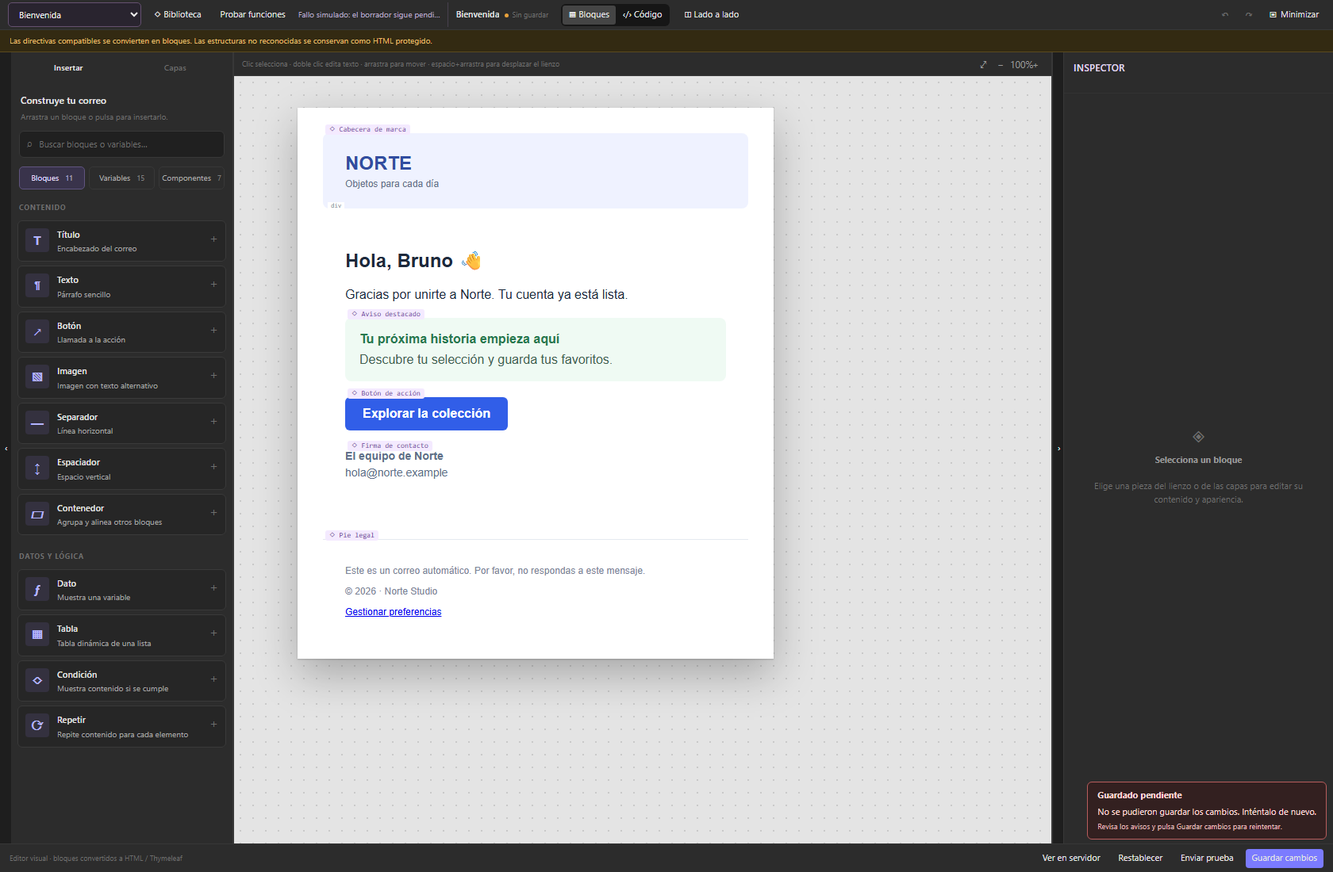
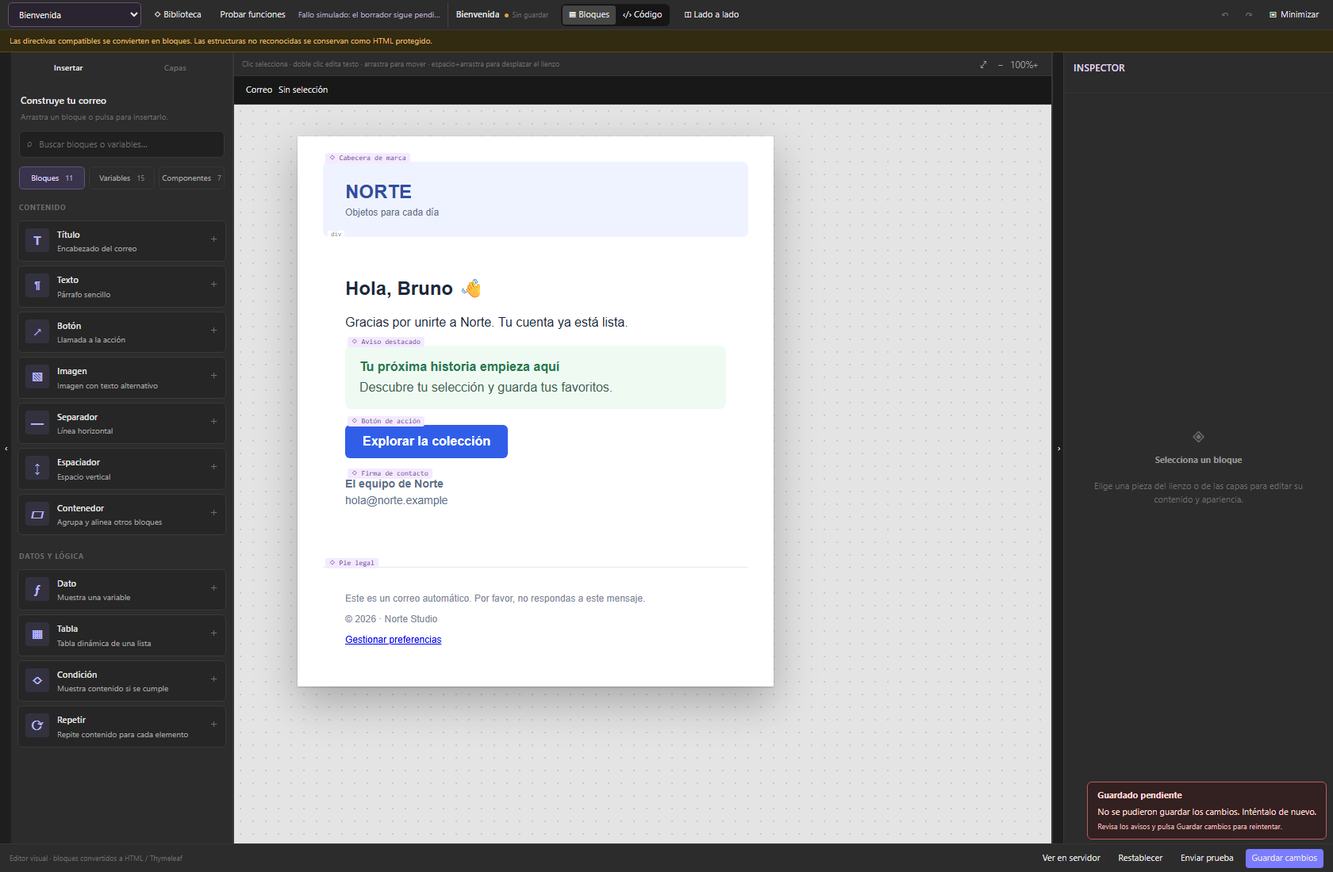
refactor(layers): unify hierarchy, ancestry navigation and nested drops

Changed region(s): [[0.1548, 0.0618, 0.8048, 0.2473], [0.2476, 0.2782, 0.4643, 0.6182], [0.2167, 0.6491, 0.5881, 0.8345]]

diff --git a/src/components/editor/LayerPanel.tsx b/src/components/editor/LayerPanel.tsx
@@ -1,86 +1,99 @@
-import React, { useRef, useState } from "react";
-import type { EmailBlock, InlineNode } from "../../services/emailBlocks";
-import { tableRowGroups } from "../../services/tableRows";
+import {useEffect,useMemo,useRef,useState} from "react";
+import type {EmailBlock} from "../../services/emailBlocks";
+import {tableRowGroups} from "../../services/tableRows";
+import {blockChildren,canDropLayer,layerGlyphs,layerIndex,layerName,layerTypes} from "../../editor/selectionModel";
+import SelectionPath from "./SelectionPath";
 
-type Props = {
-  blocks: EmailBlock[]; selectedIds: Set<string>;
-  onSelect: (id: string, additive: boolean) => void; onSelectTableField: (id: string, field: string) => void;
-  onMove: (id: string, delta: -1 | 1) => void; onDelete: (id: string) => void;
-  onReorder: (movingId: string, targetId: string, after: boolean) => void; onContextMenu: (id: string, x: number, y: number) => void;
+type Props={
+ blocks:EmailBlock[];selectedIds:Set<string>;
+ onSelect:(id:string,additive:boolean)=>void;onSelectTableField:(id:string,field:string)=>void;
+ onMove:(id:string,delta:-1|1)=>void;onDelete:(id:string)=>void;
+ onReorder:(movingId:string,targetId:string,after:boolean)=>void;
+ onMoveInto?:(movingId:string,parentId:string)=>void;
+ onContextMenu:(id:string,x:number,y:number)=>void;
 };
-const typeName: Record<EmailBlock["type"], string> = {
-  component:"Componente vinculado",
-  html: "HTML protegido", heading: "Título", paragraph: "Texto", rich: "Texto", variable: "Dato", button: "Botón", image: "Imagen",
-  divider: "Separador", spacer: "Espaciador", table: "Tabla", container: "Contenedor", loop: "Repetir", if: "Condición",
-};
-const glyph: Record<EmailBlock["type"], string> = { component: "◇", html: "<>", heading: "T", paragraph: "¶", rich: "¶", variable: "ƒ", button: "↗", image: "▧", divider: "—", spacer: "↕", table: "▦", container: "▱", loop: "⟳", if: "◇" };
-const inlineText = (nodes: InlineNode[]): string => nodes.map(node => node.type === "text" ? node.text : node.type === "variable" ? `\${${node.expression}}` : node.tag === "br" ? " · " : inlineText(node.children)).join("");
-const name = (block: EmailBlock): string => block.type === "component" ? `◇ ${block.name}` : block.type === "heading" || block.type === "paragraph" ? block.text : block.type === "rich" ? inlineText(block.children) || "Texto" : block.type === "variable" ? block.expression : block.type === "table" || block.type === "loop" ? block.collection : block.type === "if" ? block.variable : block.type === "button" ? block.text : block.type === "image" ? block.alt || "Imagen" : block.type === "container" ? block.className || (block.styles?.display === "flex" ? "Fila" : "Grupo") : typeName[block.type];
-const childrenOf = (block: EmailBlock): EmailBlock[] => block.type === "container" || block.type === "loop" || block.type === "if" ? block.children : [];
-const flatten = (blocks: EmailBlock[]): EmailBlock[] => blocks.flatMap(block => [block, ...flatten(childrenOf(block))]);
-const normalize = (value: string) => value.normalize("NFD").replace(/[\u0300-\u036f]/g, "").toLowerCase();
-
-export default function LayerPanel({ blocks, selectedIds, onSelect, onSelectTableField, onMove, onDelete, onReorder, onContextMenu }: Props) {
-  const [collapsed, setCollapsed] = useState<Set<string>>(() => new Set());
-  const [query, setQuery] = useState("");
-  const all = flatten(blocks);
-  const matches = (block: EmailBlock): boolean => normalize(`${name(block)} ${typeName[block.type]} ${block.type === "table" ? block.fields.join(" ") : ""}`).includes(normalize(query.trim()));
-  const visible = (block: EmailBlock): boolean => matches(block) || childrenOf(block).some(visible);
-  const isCollapsed = (block: EmailBlock) => !query.trim() && collapsed.has(block.id);
-  const [dragging, setDragging] = useState<string | null>(null);
-  const dragBlocked=useRef(false);
-  const [dropTarget, setDropTarget] = useState<{ id: string; after: boolean } | null>(null);
-  const render = (items: EmailBlock[], depth = 0, loopId?: string): React.ReactNode => items.map((block, index) => !visible(block) ? null : <React.Fragment key={block.id}>
-    <div draggable data-ee-layer-id={block.id} className={`ee-layer-row ee-layer-draggable ${dragging===block.id?"dragging":""} ${selectedIds.has(block.id) ? "selected" : ""} ${dropTarget?.id === block.id ? (dropTarget.after ? "drop-after" : "drop-before") : ""}`} style={{ paddingLeft: 6 + depth * 14 }}
-      onPointerDown={event=>{dragBlocked.current=!!(event.target as HTMLElement).closest(".ee-tree-actions,.ee-layer-disclosure");}}
-      onDragStart={event=>{
-        if(dragBlocked.current){event.preventDefault();return;}
-        event.dataTransfer.setData("application/x-email-layer",block.id);event.dataTransfer.effectAllowed="move";setDragging(block.id);
+type Drop={id:string;edge:"before"|"after"|"into"};
+const normalize=(value:string)=>value.normalize("NFD").replace(/[\u0300-\u036f]/g,"").toLowerCase();
+export default function LayerPanel(props:Props) {
+ const {blocks,selectedIds,onSelect,onMove,onDelete,onSelectTableField,onReorder,onMoveInto,onContextMenu}=props;
+ const index=useMemo(()=>layerIndex(blocks),[blocks]);
+ const [collapsed,setCollapsed]=useState<Set<string>>(new Set());
+ const [query,setQuery]=useState("");
+ const [moving,setMoving]=useState<string|null>(null);
+ const [drop,setDrop]=useState<Drop|null>(null);
+ const tree=useRef<HTMLDivElement>(null);
+ const blocked=useRef(false);
+ const selectionKey=[...selectedIds].join("|");
+ useEffect(()=>{
+   setCollapsed(current=>{
+    const next=new Set(current);
+    for(const id of selectedIds)for(const ancestor of index.get(id)?.path.slice(0,-1) || [])next.delete(ancestor);
+    return next.size===current.size?current:next;
+   });
+ },[selectionKey,index]);
+ const matches=(block:EmailBlock)=>normalize(`${layerName(block)} ${layerTypes[block.type]} ${block.type==="table"?block.fields.join(" "):""}`).includes(normalize(query.trim()));
+ const visible=(block:EmailBlock):boolean=>matches(block)||blockChildren(block).some(visible);
+ const expanded=(block:EmailBlock)=>!!query.trim() || !collapsed.has(block.id);
+ const toggle=(id:string)=>setCollapsed(current=>{const next=new Set(current);if(next.has(id))next.delete(id);else next.add(id);return next;});
+ const clearDrag=()=>{setMoving(null);setDrop(null);};
+ const focus=(id:string|undefined)=>{if(id)tree.current?.querySelector<HTMLElement>(`[data-ee-layer-id="${CSS.escape(id)}"]`)?.focus();};
+ const keyboard=(event:React.KeyboardEvent<HTMLDivElement>,block:EmailBlock)=>{
+   if(event.target!==event.currentTarget)return;
+   const entry=index.get(block.id)!;
+   const rows=Array.from(tree.current?.querySelectorAll<HTMLElement>('[role="treeitem"]') || []);
+   const position=rows.indexOf(event.currentTarget);
+   if(["ArrowUp","ArrowDown","ArrowLeft","ArrowRight","Enter"," ","Home","End"].includes(event.key)){event.preventDefault();event.stopPropagation();}
+   switch(event.key){
+    case "ArrowUp":rows[position-1]?.focus();break;
+    case "ArrowDown":rows[position+1]?.focus();break;
+    case "ArrowRight":if(!expanded(block))toggle(block.id);else focus(blockChildren(block)[0]?.id);break;
+    case "ArrowLeft":if(blockChildren(block).length && expanded(block))toggle(block.id);else focus(entry.parentId || undefined);break;
+    case "Enter":case " ":onSelect(block.id,event.shiftKey);break;
+    case "Home":rows[0]?.focus();break;
+    case "End":rows.at(-1)?.focus();break;
+   }
+ };
+ const render=(items:EmailBlock[]):React.ReactNode=>items.filter(visible).map(block=>{
+   const entry=index.get(block.id)!;
+   const children=blockChildren(block);
+   const hasChildren=children.length>0 || block.type === "table";
+   const selected=selectedIds.has(block.id);
+   return <div className="ee-layer-node" key={block.id}>
+    <div role="treeitem" aria-label={`${layerTypes[block.type]} · ${layerName(block)}`} aria-level={entry.depth+1} aria-selected={selected}
+      aria-expanded={hasChildren?expanded(block):undefined} aria-posinset={entry.index+1} aria-setsize={entry.siblingCount}
+      tabIndex={selected || !selectedIds.size && entry.index===0 && entry.depth===0?0:-1}
+      draggable data-ee-layer-id={block.id} style={{paddingLeft:6+entry.depth*14}}
+      className={`ee-layer-row ee-layer-draggable ${selected?"selected":""} ${moving===block.id?"dragging":""} ${drop?.id===block.id?`drop-${drop.edge}`:""}`}
+      onKeyDown={event=>keyboard(event,block)}
+      onPointerDown={event=>{blocked.current=!!(event.target as HTMLElement).closest('.ee-tree-actions,.ee-layer-disclosure');}}
+      onDragStart={event=>{event.stopPropagation();if(blocked.current){event.preventDefault();return;}event.dataTransfer.setData("application/x-email-layer",block.id);event.dataTransfer.effectAllowed="move";setMoving(block.id);onSelect(block.id,false);}}
+      onDragEnd={clearDrag}
+      onDragOver={event=>{
+        event.stopPropagation();if(!moving || !canDropLayer(index,moving,block.id))return;
+        event.preventDefault();const box=event.currentTarget.getBoundingClientRect();const y=(event.clientY-box.top)/box.height;
+        setDrop({id:block.id,edge:onMoveInto && ["container","if","loop"].includes(block.type) && y>0.25 && y<0.75?"into":y<0.5?"before":"after"});
       }}
-      onDragEnd={()=>{setDragging(null);setDropTarget(null);}}
-      onDragOver={event => {
-        if (!dragging || dragging === block.id) return;
-        event.preventDefault();
-        const rect = event.currentTarget.getBoundingClientRect();
-        setDropTarget({ id: block.id, after: event.clientY > rect.top + rect.height / 2 });
-      }}
-      onDragLeave={() => setDropTarget(current => current?.id === block.id ? null : current)}
-      onContextMenu={event => { event.preventDefault(); event.stopPropagation(); onSelect(block.id, false); onContextMenu(block.id, event.clientX, event.clientY); }}
-      onDrop={event => {
-        event.preventDefault();
-        const source = event.dataTransfer.getData("application/x-email-layer");
-        if (source && source !== block.id) onReorder(source, block.id, dropTarget?.after ?? false);
-        setDragging(null); setDropTarget(null);
-      }}>
-      <button className="ee-layer-grip" aria-label={`Arrastrar ${name(block)} para reordenar`} title="Puedes arrastrar desde cualquier parte de la fila" onClick={event=>onSelect(block.id,event.shiftKey)}>⠿</button>
-      {(block.type === "container" || block.type === "loop" || block.type === "if" || block.type === "table") ? <button className="ee-layer-disclosure" aria-label={`${isCollapsed(block) ? "Expandir" : "Contraer"} ${name(block)}`} aria-expanded={!isCollapsed(block)} disabled={!!query.trim()}
-          onClick={event => { event.stopPropagation(); setCollapsed(current => { const next = new Set(current); if (next.has(block.id)) next.delete(block.id); else next.add(block.id); return next; }); }}>
-          {isCollapsed(block) ? "›" : "⌄"}
-        </button> : <span className="ee-layer-disclosure" />}
-      <button className="ee-layer-select" aria-pressed={selectedIds.has(block.id)} onClick={event => onSelect(block.id, event.shiftKey)} title={`${typeName[block.type]} · ${name(block)}`}>
-        <span className={`ee-tree-glyph glyph-${block.type}`}>{glyph[block.type]}</span><span className="ee-tree-name">{name(block)}</span>
-      </button>
-      <div className="ee-tree-actions">
-        <button aria-label="Mover arriba" title="Subir" disabled={!index} onClick={() => onMove(block.id, -1)}>↑</button>
-        <button aria-label="Mover abajo" title="Bajar" disabled={index === items.length - 1} onClick={() => onMove(block.id, 1)}>↓</button>
-        <button aria-label="Eliminar" title="Eliminar" onClick={() => onDelete(block.id)}>×</button>
-      </div>
+      onDragLeave={event=>{if(!(event.relatedTarget instanceof Node) || !event.currentTarget.contains(event.relatedTarget))setDrop(current=>current?.id===block.id?null:current);}}
+      onDrop={event=>{event.preventDefault();event.stopPropagation();const source=event.dataTransfer.getData("application/x-email-layer");if(drop?.id===block.id && canDropLayer(index,source,block.id)){if(drop.edge==="into")onMoveInto?.(source,block.id);else onReorder(source,block.id,drop.edge==="after");}clearDrag();}}
+      onContextMenu={event=>{event.preventDefault();event.stopPropagation();onSelect(block.id,false);onContextMenu(block.id,event.clientX,event.clientY);}}>
+      <button type="button" className="ee-layer-grip" aria-label={`Arrastrar ${layerName(block)} para reordenar`} onClick={event=>onSelect(block.id,event.shiftKey)}>⠿</button>
+      {hasChildren?<button type="button" className="ee-layer-disclosure" aria-label={`${expanded(block)?"Contraer":"Expandir"} ${layerName(block)}`} aria-expanded={expanded(block)} disabled={!!query.trim()} onClick={()=>toggle(block.id)}>{expanded(block)?"⌄":"›"}</button>:<span className="ee-layer-disclosure"/>}
+      <button type="button" className="ee-layer-select" aria-pressed={selected} title={`${layerTypes[block.type]} · ${layerName(block)}`} onClick={event=>onSelect(block.id,event.shiftKey)}><span className={`ee-tree-glyph glyph-${block.type}`}>{layerGlyphs[block.type]}</span><span className="ee-tree-name">{layerName(block)}<small>{layerTypes[block.type]}</small></span></button>
+      <div className="ee-tree-actions"><button type="button" aria-label="Mover arriba" disabled={entry.index===0} onClick={()=>onMove(block.id,-1)}>↑</button><button type="button" aria-label="Mover abajo" disabled={entry.index===entry.siblingCount-1} onClick={()=>onMove(block.id,1)}>↓</button><button type="button" aria-label="Eliminar" onClick={()=>onDelete(block.id)}>×</button></div>
     </div>
-    {block.type === "table" && !isCollapsed(block) && block.fields.map(field => <button key={`${block.id}-cell-${field}`} className="ee-layer-row ee-layer-structural" style={{ paddingLeft: 6 + (depth + 1) * 14 }}
-      onClick={() => onSelectTableField(block.id, field)} title={`Seleccionar columna ${field}`}>
-      <span className="ee-layer-grip">⌞</span><span className="ee-tree-glyph">▦</span><span className="ee-tree-name">{block.columnLabels?.[field] || field} <small>· {block.columnFormats?.[field]?.type === "currency" ? "Moneda" : block.columnFormats?.[field]?.type === "number" ? "Número" : "Original"}</small></span>
-    </button>)}
-    {block.type === "table" && !isCollapsed(block) && tableRowGroups(block).map((row,index)=><div className="ee-table-layer-group" key={row.id} style={{paddingLeft:12+(depth+1)*14}}>
-      <button className="ee-layer-select" onClick={()=>onSelect(block.id,false)} title="Editar las fuentes y valores en Diseño de tabla"><span className="ee-tree-glyph">{row.type === "repeat" ? "⟳" : "−"}</span><span className="ee-tree-name">{index+1}. {row.type === "repeat" ? `Repetir · ${row.collection}` : "Fila única"}</span></button>
-      {block.fields.map(field=><button className="ee-table-layer-cell" key={field} onClick={()=>onSelectTableField(block.id,field)} title={`${block.columnLabels?.[field] || field}: ${row.cells[field]?.value ?? "Vacío"}`}>{block.columnLabels?.[field] || field} ← {row.cells[field]?.mode === "expression" ? "ƒ " : ""}{row.cells[field]?.value || "Vacío"}</button>)}
-    </div>)}
-    {(block.type === "container" || block.type === "loop" || block.type === "if") && !isCollapsed(block) && render(block.children, depth + 1, block.type === "loop" ? block.id : loopId)}
-  </React.Fragment>);
-  return <section className="ee-layers-panel" aria-label="Capas">
-    <div className="ee-library-intro"><strong>Estructura del correo</strong><p>Selecciona una capa para editarla en el lienzo.</p></div>
-    <div className="ee-panel-search"><span aria-hidden="true">⌕</span><input type="search" aria-label="Buscar capas" placeholder="Buscar texto, tipo o variable…" value={query} onChange={event => setQuery(event.target.value)} /></div>
-    <div className="ee-layer-tools"><span>{all.length} capas</span><button disabled={!!query.trim()} onClick={() => setCollapsed(new Set())}>Expandir todo</button><button disabled={!!query.trim()} onClick={() => setCollapsed(new Set(all.filter(block => childrenOf(block).length || block.type === "table").map(block => block.id)))}>Contraer todo</button></div>
-    <div className="ee-layer-tree">{!blocks.length ? <p className="ee-empty-hint">El lienzo todavía está vacío. Añade un bloque desde Insertar.</p> : !blocks.some(visible) ? <p className="ee-empty-hint">No hay capas para «{query}».</p> : render(blocks)}</div>
-    <footer className="ee-layers-footer">{query.trim() ? `${all.filter(matches).length} coincidencias` : selectedIds.size ? `${selectedIds.size} seleccionadas · Mayús + clic para añadir` : "Arrastra cualquier fila para reordenar"}</footer>
-  </section>;
+    {block.type === "table" && expanded(block) && <div className="ee-layer-table-structure" style={{paddingLeft:18+(entry.depth+1)*14}}>
+      {block.fields.map(field=><button type="button" key={field} className="ee-layer-structural" onClick={()=>onSelectTableField(block.id,field)}>▦ {block.columnLabels?.[field] || field} · {block.columnFormats?.[field]?.type || "text"}</button>)}
+      {tableRowGroups(block).map((row,rowIndex)=><details key={row.id} className="ee-layer-source"><summary>{rowIndex+1}. {row.type === "repeat"?`Repetir · ${row.collection}`:"Fila única"}</summary>{block.fields.map(field=><button type="button" key={field} onClick={()=>onSelectTableField(block.id,field)}>{block.columnLabels?.[field] || field} ← {row.cells[field]?.value || "Vacío"}</button>)}</details>)}
+    </div>}
+    {expanded(block) && render(children)}
+   </div>;
+ });
+ return <section className="ee-layers-panel" aria-label="Capas">
+   <div className="ee-library-intro"><strong>Estructura del correo</strong></div>
+   <SelectionPath blocks={blocks} selectedIds={selectedIds} onSelect={onSelect}/>
+   <div className="ee-panel-search"><span aria-hidden="true">⌕</span><input type="search" aria-label="Buscar capas" placeholder="Buscar texto, tipo o variable…" value={query} onChange={event=>setQuery(event.target.value)}/></div>
+   <div className="ee-layer-tools"><span>{index.size} capas</span><button type="button" disabled={!!query.trim()} onClick={()=>setCollapsed(new Set())}>Expandir todo</button><button type="button" disabled={!!query.trim()} onClick={()=>setCollapsed(new Set([...index.values()].filter(entry=>blockChildren(entry.block).length || entry.block.type==="table").map(entry=>entry.block.id)))}>Contraer todo</button></div>
+   <div className="ee-layer-tree" ref={tree} role="tree" aria-label="Árbol de capas" aria-multiselectable="true">{blocks.some(visible)?render(blocks):<p className="ee-empty-hint">{blocks.length?`No hay capas para «${query}».`:"Añade un bloque desde Insertar."}</p>}</div>
+   <footer className="ee-layers-footer" aria-live="polite">{drop && index.has(drop.id)?`${drop.edge==="into"?"Dentro de":drop.edge==="before"?"Antes de":"Después de"} ${layerName(index.get(drop.id)!.block)}`:query?`${[...index.values()].filter(entry=>matches(entry.block)).length} coincidencias`:`${selectedIds.size} seleccionadas · Mayús + clic para añadir`}</footer>
+ </section>;
 }

diff --git a/src/editor/selectionModel.ts b/src/editor/selectionModel.ts
@@ -1,0 +1,34 @@
+import type {EmailBlock} from "../services/emailBlocks";
+import {inlineTextOf} from "../services/inlineTextModel";
+export type LayerEntry={block:EmailBlock;parentId:string|null;depth:number;index:number;siblingCount:number;path:string[]};
+export const layerTypes:Record<EmailBlock["type"],string>={component:"Componente",html:"HTML protegido",heading:"Título",paragraph:"Texto",rich:"Texto",variable:"Dato",button:"Botón",image:"Imagen",divider:"Separador",spacer:"Espaciador",table:"Tabla",container:"Grupo",loop:"Repetir",if:"Condición"};
+export const layerGlyphs:Record<EmailBlock["type"],string>={component:"◇",html:"<>",heading:"T",paragraph:"¶",rich:"¶",variable:"ƒ",button:"↗",image:"▧",divider:"—",spacer:"↕",table:"▦",container:"▱",loop:"⟳",if:"◇"};
+export function blockChildren(block:EmailBlock):EmailBlock[] {
+ return block.type === "container" || block.type === "loop" || block.type === "if"?block.children:[];
+}
+export function layerName(block:EmailBlock):string {
+ switch(block.type){
+  case "component":return block.name;
+  case "heading":case "paragraph":case "button":return block.text || layerTypes[block.type];
+  case "rich":return inlineTextOf(block.children) || "Texto";
+  case "image":return block.alt || "Imagen";
+  case "variable":return block.expression;
+  case "if":return `Si ${block.variable}`;
+  case "loop":return `Repetir ${block.collection}`;
+  case "table":return block.collection?`Tabla · ${block.collection}`:"Tabla";
+  case "container":return block.className || (block.styles?.display === "flex"?"Fila":"Grupo");
+  default:return layerTypes[block.type];
+ }
+}
+export function layerIndex(blocks:EmailBlock[]):Map<string,LayerEntry> {
+ const result=new Map<string,LayerEntry>();
+ const visit=(items:EmailBlock[],parentId:string|null,path:string[])=>items.forEach((block,index)=>{
+  const nextPath=[...path,block.id];
+  result.set(block.id,{block,parentId,path:nextPath,depth:path.length,index,siblingCount:items.length});
+  visit(blockChildren(block),block.id,nextPath);
+ });
+ visit(blocks,null,[]);return result;
+}
+export function canDropLayer(index:Map<string,LayerEntry>,moving:string,target:string):boolean {
+ return index.has(moving) && index.has(target) && !index.get(target)!.path.includes(moving);
+}

diff --git a/src/components/editor/DesignInspector.tsx b/src/components/editor/DesignInspector.tsx
@@ -7,13 +7,18 @@ import { ColorInput,LengthInput } from "./StyleInputs";
 type Props={block:EmailBlock;onPatch:(patch:Partial<EmailBlock>)=>void};
 export default function DesignInspector({block,onPatch}:Props) {
   const styles=block.styles || {};
-  const change=(styles:Record<string,string>)=>onPatch({styles});
+  const change=(styles:Record<string,string>)=>onPatch(block.type === "table" ? {styles,width:styles.width ?? block.width} : {styles});
   const positional=(positionAlignedBlockTypes as readonly string[]).includes(block.type);
   const position=styles.marginLeft === "auto"?styles.marginRight === "auto"?"center":"right":"left";
   const align=(value:"left"|"center"|"right")=>change({...styles,...positionAlignStyles(value,block.type,styles.display)});
-  const sizing=block.type === "image" && block.width?{width:`${block.width}px`,...styles}:styles;
+  const sizing=block.type === "image" && block.width?{width:`${block.width}px`,...styles}:block.type === "table" && block.width?{width:block.width,...styles}:styles;
+  const resize=(next:Record<string,string>)=>{
+    if(block.type === "image")onPatch({styles:next,width:next.width?.endsWith("px")?next.width.slice(0,-2):next.width?block.width:""});
+    else if(block.type === "table")onPatch({styles:next,width:next.width || undefined});
+    else onPatch({styles:next});
+  };
   return <div className="ee-design-inspector">
-    <FrameSizing styles={sizing} onChange={next=>onPatch(block.type === "image"?{styles:next,width:next.width?.endsWith("px")?next.width.slice(0,-2):next.width?block.width:""}:{styles:next})}/>
+    <FrameSizing styles={sizing} onChange={resize}/>
     <LengthInput label="Ancho máximo" value={styles.maxWidth || ""} onChange={maxWidth=>change({...styles,maxWidth})} placeholder="600px"/>
     <fieldset className="ee-design-group"><legend>Posición del bloque</legend>
       <div className="ee-alignment-control" role="group" aria-label="Posición del bloque">

diff --git a/src/components/editor/TransformControls.tsx b/src/components/editor/TransformControls.tsx
@@ -1,3 +1,4 @@
+import { edges, readEdge } from "../../editor/boxModel";
 import { beginGesture, advanceGesture, finishGesture, type GesturePhase } from "../../editor/gestureMachine";
 import { useLayoutEffect, useRef, useState } from "react";
 import { createPortal } from "react-dom";
@@ -136,13 +137,15 @@ export default function TransformControls({ block, rect, layerRef, zoom, onPatch
     surface.style.pointerEvents = "none";
     const underlying = document.elementFromPoint?.(event.clientX, event.clientY);
     surface.style.pointerEvents = "";
-    underlying?.dispatchEvent(new MouseEvent(type, { bubbles: true, cancelable: true, clientX: event.clientX, clientY: event.clientY, shiftKey: event.shiftKey }));
+    underlying?.dispatchEvent(new MouseEvent(type, { bubbles: true, cancelable: true, clientX: event.clientX, clientY: event.clientY, shiftKey: event.shiftKey, altKey:event.altKey }));
   };
   const styles = live || block.styles || {};
   const width = styles.width || (block.type === "image" && block.width ? `${block.width}px` : undefined);
+  const paddingEdges = edges.map(([side])=>readEdge(styles,"padding",side) || "0px");
+  const paddingLabel = paddingEdges.every(value=>value===paddingEdges[0]) ? describeLength(paddingEdges[0]) : paddingEdges.join(" / ");
   const measurements = <div className="ee-transform-measurements" role="status">
     <span>Ancho: {describeLength(width)} · Alto: {describeLength(styles.height)}</span>
-    <span>Margen: {["Top","Right","Bottom","Left"].map(side => styles[`margin${side}`] || styles.margin || "0").join(" / ")} · Interior: {describeLength(styles.padding || "0px")}</span>
+    <span>Margen: {["Top","Right","Bottom","Left"].map(side => styles[`margin${side}`] || styles.margin || "0").join(" / ")} · Interior: {paddingLabel}</span>
     {guide?.rect && <strong>{guide.label} · Alt para ignorar</strong>}
   </div>;
 

diff --git a/src/components/EmailEditor.tsx b/src/components/EmailEditor.tsx
@@ -1,6 +1,6 @@
 import React, { lazy, Suspense, useCallback, useRef } from "react";
 import type { CommonElements, EmailToken } from "../services/emailTemplateRenderer";
-import { findEmailBlock, moveEmailBlockAfter, moveEmailBlockBefore } from "../services/emailBlocks";
+import { findEmailBlock, moveEmailBlockToContainer, moveEmailBlockAfter, moveEmailBlockBefore } from "../services/emailBlocks";
 import { useEmailEditor } from "./email-editor/useEmailEditor";
 import { useEditorChrome } from "../editor/useEditorChrome";
 import EditorToolbar from "./editor/EditorToolbar";
@@ -78,7 +78,7 @@ export default function EmailEditor(props: EmailEditorProps) {
         </Suspense> : <div className="ee-build-area">
           <button className="ee-panel-toggle left" onClick={chrome.toggleLeft} aria-label={chrome.leftCollapsed ? "Mostrar panel izquierdo" : "Ocultar panel izquierdo"}>{chrome.leftCollapsed ? "›" : "‹"}</button>
           {!chrome.leftCollapsed && <>
-            <LeftPanel components={commonElements.components} onComponent={editor.createComponent} style={{ width: chrome.leftWidth }}
+            <LeftPanel onMoveInto={(id,parent)=>editor.publish(moveEmailBlockToContainer(editor.blocks,id,parent))} components={commonElements.components} onComponent={editor.createComponent} style={{ width: chrome.leftWidth }}
               tab={editor.leftTab} onTabChange={editor.setLeftTab} blocks={editor.blocks} selectedIds={editor.selectedIds} tokens={tokens}
               loopCollection={editor.selectedLoopCollection} onAdd={editor.create} onBeginPaletteDrag={editor.beginPaletteDrag}
               onVariable={editor.addVariable} onSelect={editor.onSelect} onSelectTableField={editor.onSelectTableField}

diff --git a/src/components/editor/LeftPanel.tsx b/src/components/editor/LeftPanel.tsx
@@ -13,6 +13,7 @@ type Props = {
   onAdd: (kind: BlockKind) => void; onBeginPaletteDrag: (kind: BlockKind, clientX: number, clientY: number) => void; onVariable: (expression: string) => void;
   onSelect: (id: string, additive: boolean) => void; onSelectTableField: (id: string, field: string) => void;
   onMove: (id: string, delta: -1 | 1) => void; onDelete: (id: string) => void;
+  onMoveInto?: (movingId:string,parentId:string)=>void;
   onReorder: (movingId: string, targetId: string, after: boolean) => void; onContextMenu: (id: string, x: number, y: number) => void;
 };
 
@@ -23,7 +24,7 @@ export default function LeftPanel(props: Props) {
       <button role="tab" aria-selected={props.tab === "layers"} className={props.tab === "layers" ? "active" : ""} onClick={() => props.onTabChange("layers")}>Capas</button>
     </div>
     {props.tab === "layers"
-      ? <LayerPanel blocks={props.blocks} selectedIds={props.selectedIds} onSelect={props.onSelect} onSelectTableField={props.onSelectTableField}
+      ? <LayerPanel onMoveInto={props.onMoveInto} blocks={props.blocks} selectedIds={props.selectedIds} onSelect={props.onSelect} onSelectTableField={props.onSelectTableField}
         onMove={props.onMove} onDelete={props.onDelete} onReorder={props.onReorder} onContextMenu={props.onContextMenu} />
       : <BlockPalette components={props.components} onComponent={props.onComponent} tokens={props.tokens} loopCollection={props.loopCollection} onAdd={props.onAdd} onBeginDrag={props.onBeginPaletteDrag} onVariable={props.onVariable} />}
   </aside>;

diff --git a/src/components/email-editor/email-editor.css b/src/components/email-editor/email-editor.css
@@ -609,3 +609,14 @@
 .ee-table-column-properties legend,.ee-table-sources legend { font-size:12px; padding:0 5px; }
 .ee-table-sources,.ee-table-source-fields { display:grid; gap:10px; }
 .ee-table-source-fields .ee-btn { text-align:left; overflow:hidden; text-overflow:ellipsis; }
+.ee-selection-path { display:flex; align-items:center; flex-wrap:wrap; gap:3px; padding:6px 10px; border-bottom:1px solid var(--panel-border,#48414f); font-size:11px; min-height:30px; max-height:85px; overflow:auto; flex-shrink:0; }
+.ee-selection-path>span { display:flex; align-items:center; gap:3px; min-width:0; }
+.ee-selection-path button { max-width:145px; overflow:hidden; text-overflow:ellipsis; white-space:nowrap; padding:3px 5px; color:var(--text,#ddd); border-radius:4px; background:transparent; }
+.ee-selection-path button[aria-current="location"] { background:#493c68; color:white; }
+.ee-layer-row.drop-into { outline:1px solid #a892ff; outline-offset:-1px; background:#493c6833; }
+.ee-layer-row[role="treeitem"]:focus-visible { outline:2px solid #a892ff; outline-offset:-2px; }
+.ee-layer-node .ee-tree-name small { display:block; margin-top:2px; font-size:9px; color:var(--text-faint); }
+.ee-layer-table-structure { display:grid; gap:3px; font-size:10px; }
+.ee-layer-table-structure button { text-align:left; padding:5px; overflow:hidden; text-overflow:ellipsis; color:var(--text,#ddd); background:transparent; }
+.ee-layer-source { padding:4px; color:var(--text-faint); }
+.ee-layer-source button { display:block; max-width:100%; }

diff --git a/src/components/editor/SelectionPath.tsx b/src/components/editor/SelectionPath.tsx
@@ -1,0 +1,14 @@
+import {useMemo} from "react";
+import type {EmailBlock} from "../../services/emailBlocks";
+import {layerIndex,layerName} from "../../editor/selectionModel";
+export default function SelectionPath({blocks,selectedIds,onSelect,onClear}:{blocks:EmailBlock[];selectedIds:Set<string>;onSelect:(id:string,additive:boolean)=>void;onClear?:()=>void}) {
+ const index=useMemo(()=>layerIndex(blocks),[blocks]);
+ const selected=selectedIds.size===1?index.get([...selectedIds][0]):undefined;
+ return <nav className="ee-selection-path" aria-label="Ruta de selección">
+  <button type="button" onClick={onClear} disabled={!onClear}>Correo</button>
+  {selected?selected.path.map((id,position)=>{
+    const entry=index.get(id)!;const name=layerName(entry.block);
+    return <span key={id}><span aria-hidden="true">›</span><button type="button" title={name} aria-current={position===selected.path.length-1?"location":undefined} onClick={()=>onSelect(id,false)}>{name}</button></span>;
+  }):<span>{selectedIds.size?`${selectedIds.size} seleccionados`:"Sin selección"}</span>}
+ </nav>;
+}

diff --git a/src/components/editor/BlockRenderer.tsx b/src/components/editor/BlockRenderer.tsx
@@ -131,7 +131,7 @@ function BlockNode({ block, locals, loopId }: { block: EmailBlock; locals: Recor
     "data-ee-block-kind": block.type,
     className: `ee-block ${selected ? "ee-block-selected" : ""} ${hovered ? "ee-block-hovered" : ""}`.trim(),
     style: isDragSource ? { opacity: 0.4 } : undefined,
-    onClick: (event: React.MouseEvent) => { event.stopPropagation(); ctx.onSelect(block.id, event.shiftKey); },
+    onClick: (event: React.MouseEvent) => { event.stopPropagation(); const parent = event.altKey ? event.currentTarget.parentElement?.closest<HTMLElement>("[data-ee-block-id]")?.dataset.eeBlockId : undefined; ctx.onSelect(parent || block.id, event.shiftKey); },
     onContextMenu: (event: React.MouseEvent) => { event.preventDefault(); event.stopPropagation(); ctx.onSelect(block.id, false); ctx.onContextMenu(block.id, event.clientX, event.clientY); },
     onMouseEnter: (event: React.MouseEvent) => { event.stopPropagation(); ctx.onHover(block.id); },
     onMouseLeave: () => ctx.onHover(null),

diff --git a/src/components/editor/BlockInspector.tsx b/src/components/editor/BlockInspector.tsx
@@ -125,8 +125,8 @@ export default function BlockInspector({ style, block, multiCount, tokens, loopC
         </div>
       </details>
 
-      {block.type === "table" && tab !== "advanced" && <TableInspector key={block.id} block={block} onPatch={patch} tokens={tokens} mode={tab === "design" ? "design" : "content"} selectedField={selectedTableField} /> }
-      {tab === "design" && <DesignInspector key={block.id} block={block} onPatch={patch}/>}
+      {block.type === "table" && tab !== "advanced" && <TableInspector key={`table-${block.id}`} block={block} onPatch={patch} tokens={tokens} mode={tab === "design" ? "design" : "content"} selectedField={selectedTableField} /> }
+      {tab === "design" && <DesignInspector key={`design-${block.id}`} block={block} onPatch={patch}/>}
 
       <details className="ee-inspector-section" hidden={tab !== "advanced"}>
         <summary>Atributos HTML</summary>

diff --git a/src/components/editor/BlockInspector.test.tsx b/src/components/editor/BlockInspector.test.tsx
@@ -62,3 +62,11 @@ it("centres a narrow rich-text box while preserving its text alignment",()=>{
   expect(output).toHaveTextContent('"textAlign":"center"');
   expect(output).toHaveTextContent('"width":"386px"');
 });
+
+it("updates the table width property together with its design styles",()=>{
+ const changes:Partial<EmailBlock>[]=[];
+ render(<BlockInspector block={{id:"t",type:"table",fields:["name"],collection:"items",width:"100%"}} tokens={[]} onPatch={(_,patch)=>changes.push(patch)} onInsertVariable={()=>{}}/>);
+ fireEvent.click(screen.getByRole("tab",{name:"Diseño"}));
+ fireEvent.change(screen.getByRole("combobox",{name:"Modo de ancho"}),{target:{value:"fixed"}});
+ expect(changes.at(-1)).toMatchObject({width:"300px",styles:{width:"300px"}});
+});

diff --git a/src/editor/selectionModel.test.ts b/src/editor/selectionModel.test.ts
@@ -1,0 +1,11 @@
+import {it,expect} from "vitest";
+import type {EmailBlock} from "../services/emailBlocks";
+import {layerIndex,canDropLayer} from "./selectionModel";
+it("records ancestry and rejects drops on the dragged node or its descendants",()=>{
+ const blocks:EmailBlock[]=[{id:"parent",type:"container",children:[{id:"child",type:"paragraph",text:"Dentro"}]},{id:"other",type:"paragraph",text:"Fuera"}];
+ const index=layerIndex(blocks);
+ expect(index.get("child")?.path).toEqual(["parent","child"]);
+ expect(canDropLayer(index,"parent","child")).toBe(false);
+ expect(canDropLayer(index,"parent","parent")).toBe(false);
+ expect(canDropLayer(index,"child","other")).toBe(true);
+});
